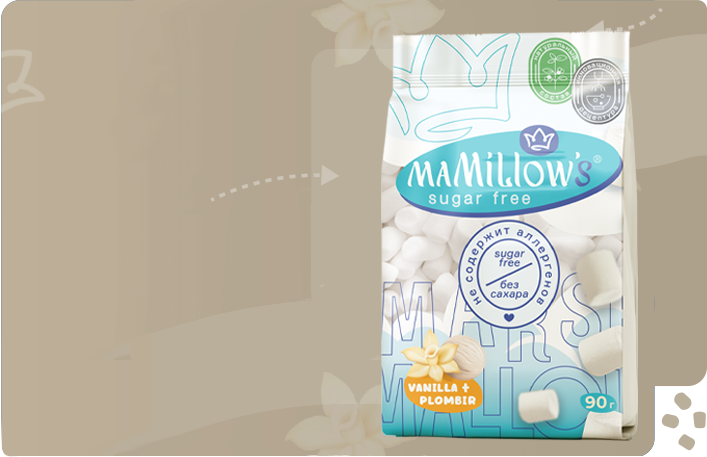
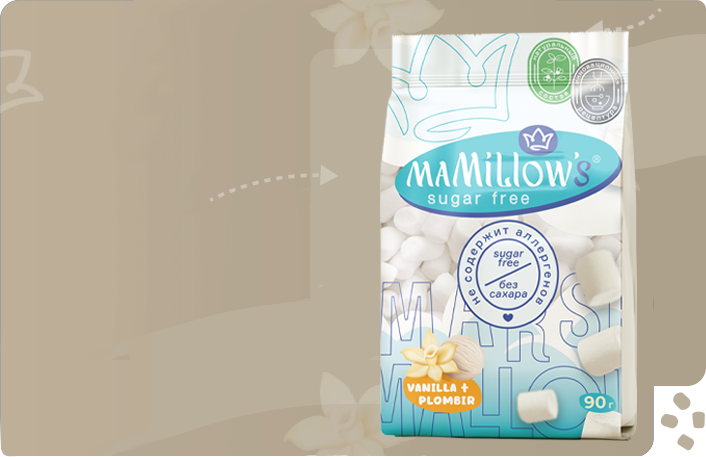
Правки баннера без сахара на главной

diff --git a/scss/home.scss b/scss/home.scss
@@ -543,6 +543,7 @@
 .category-banner {
     min-height: fit-content;
     border-radius: 24px;
+    padding-top: 32px;
 
     display: flex;
     flex-direction: column;
@@ -553,6 +554,10 @@
 
     &--classic {
         background-image: linear-gradient(90deg, #3f6bcd, #e18add);
+
+        @media (max-width: 480px) {
+            padding-top: 16px;
+        }
 
         &::before {
             content: "";
@@ -602,26 +607,27 @@
     &--sugar-free {
         aspect-ratio: 3632/1253;
         background-image: url("/images/home-category-bunner-sugar-free.png");
+        justify-content: space-evenly;
+        padding-top: 0;
 
         @media (max-width: 480px) {
             aspect-ratio: 706/457;
-            background-image: url("/images/category-banner-sugar-free-bg-mobile.png");
+            background-image: url("images/home-category-bunner-sugar-free-mobile.png");
         }
     }
 
     &__container {
         width: 50%;
         padding-left: 64px;
-        padding-top: 32px;
+
 
         display: flex;
         flex-direction: column;
         gap: 8px;
 
         @media (max-width: 480px) {
-            width: 55%;
+            width: 50%;
             padding-left: 24px;
-            padding-top: 16px;
         }
     }
 
@@ -701,8 +707,6 @@
             padding-top: 0;
             align-items: center;
 
-            flex: 1;
-
             aspect-ratio: unset;
             border: 0;
 
@@ -765,16 +769,6 @@
             top: unset;
             bottom: 10%;
             transform: translateX(2.25%);
-        }
-
-        &--sugar-free {
-            @media (max-width: 480px) {
-                height: 85%;
-                bottom: unset;
-                top: unset;
-                align-self: anchor-center;
-                right: 8.125%;
-            }
         }
     }
 }

diff --git a/index.css b/index.css
@@ -1501,6 +1501,7 @@
   min-height: -moz-fit-content;
   min-height: fit-content;
   border-radius: 24px;
+  padding-top: 32px;
   display: flex;
   flex-direction: column;
   position: relative;
@@ -1509,6 +1510,11 @@
 }
 .category-banner--classic {
   background-image: linear-gradient(90deg, #3f6bcd, #e18add);
+}
+@media (max-width: 480px) {
+  .category-banner--classic {
+    padding-top: 16px;
+  }
 }
 .category-banner--classic::before {
   content: "";
@@ -1551,26 +1557,26 @@
 .category-banner--sugar-free {
   aspect-ratio: 3632/1253;
   background-image: url("/images/home-category-bunner-sugar-free.png");
+  justify-content: space-evenly;
+  padding-top: 0;
 }
 @media (max-width: 480px) {
   .category-banner--sugar-free {
     aspect-ratio: 706/457;
-    background-image: url("/images/category-banner-sugar-free-bg-mobile.png");
+    background-image: url("images/home-category-bunner-sugar-free-mobile.png");
   }
 }
 .category-banner__container {
   width: 50%;
   padding-left: 64px;
-  padding-top: 32px;
   display: flex;
   flex-direction: column;
   gap: 8px;
 }
 @media (max-width: 480px) {
   .category-banner__container {
-    width: 55%;
+    width: 50%;
     padding-left: 24px;
-    padding-top: 16px;
   }
 }
 .category-banner__subtitle {
@@ -1643,7 +1649,6 @@
 .category-banner__footer--transparent {
   padding-top: 0;
   align-items: center;
-  flex: 1;
   aspect-ratio: unset;
   border: 0;
   background-image: none;
@@ -1701,15 +1706,6 @@
     top: unset;
     bottom: 10%;
     transform: translateX(2.25%);
-  }
-}
-@media (max-width: 480px) {
-  .category-banner__img--sugar-free {
-    height: 85%;
-    bottom: unset;
-    top: unset;
-    align-self: anchor-center;
-    right: 8.125%;
   }
 }
 

diff --git a/index.html b/index.html
@@ -201,6 +201,8 @@
           <div class="category-banner__container">
             <p class="category-banner__subtitle">Чаще всего покупают!</p>
             <p class="category-banner__title">Без сахара</p>
+          </div>
+          <div class="category-banner__container">
             <p class="category-banner__description">
               Классическая линия маршмеллоу maMiLliow’s имеет изысканный
               ванильный нежный вкус с легкими нотками пломбирного мороженого или
@@ -229,14 +231,6 @@
               Открыть
             </a>
           </div>
-          <img
-            srcset="
-              images/category-banner-sugar-free-img-mobile.png 480w,
-              images/category-banner-sugar-free-img.png
-            "
-            alt=""
-            class="category-banner__img category-banner__img--sugar-free"
-          />
         </div>
       </section>
       <section class="container home-ideas">
